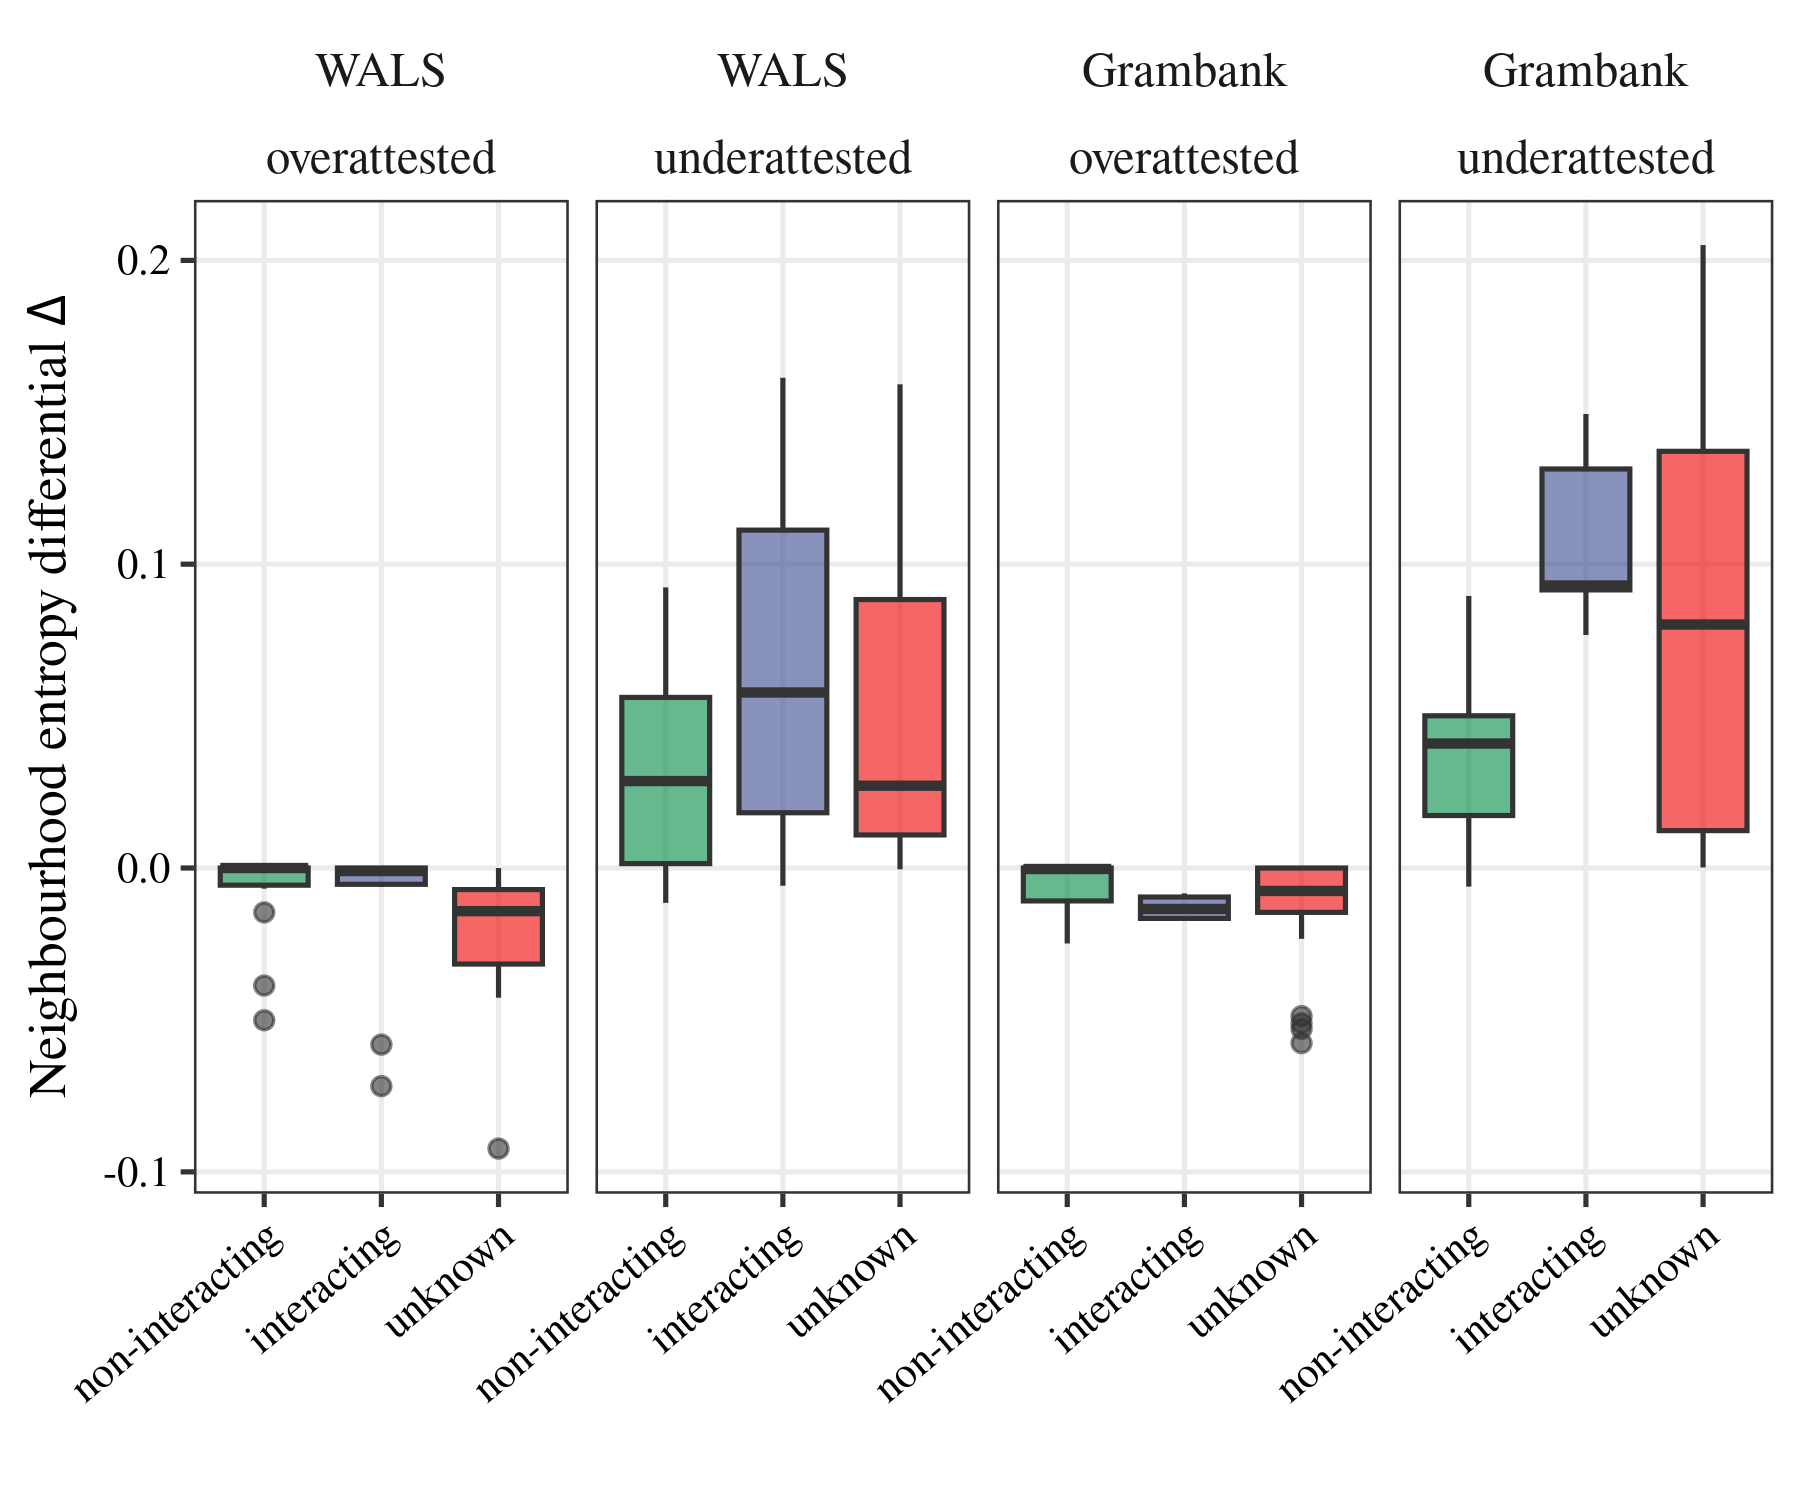
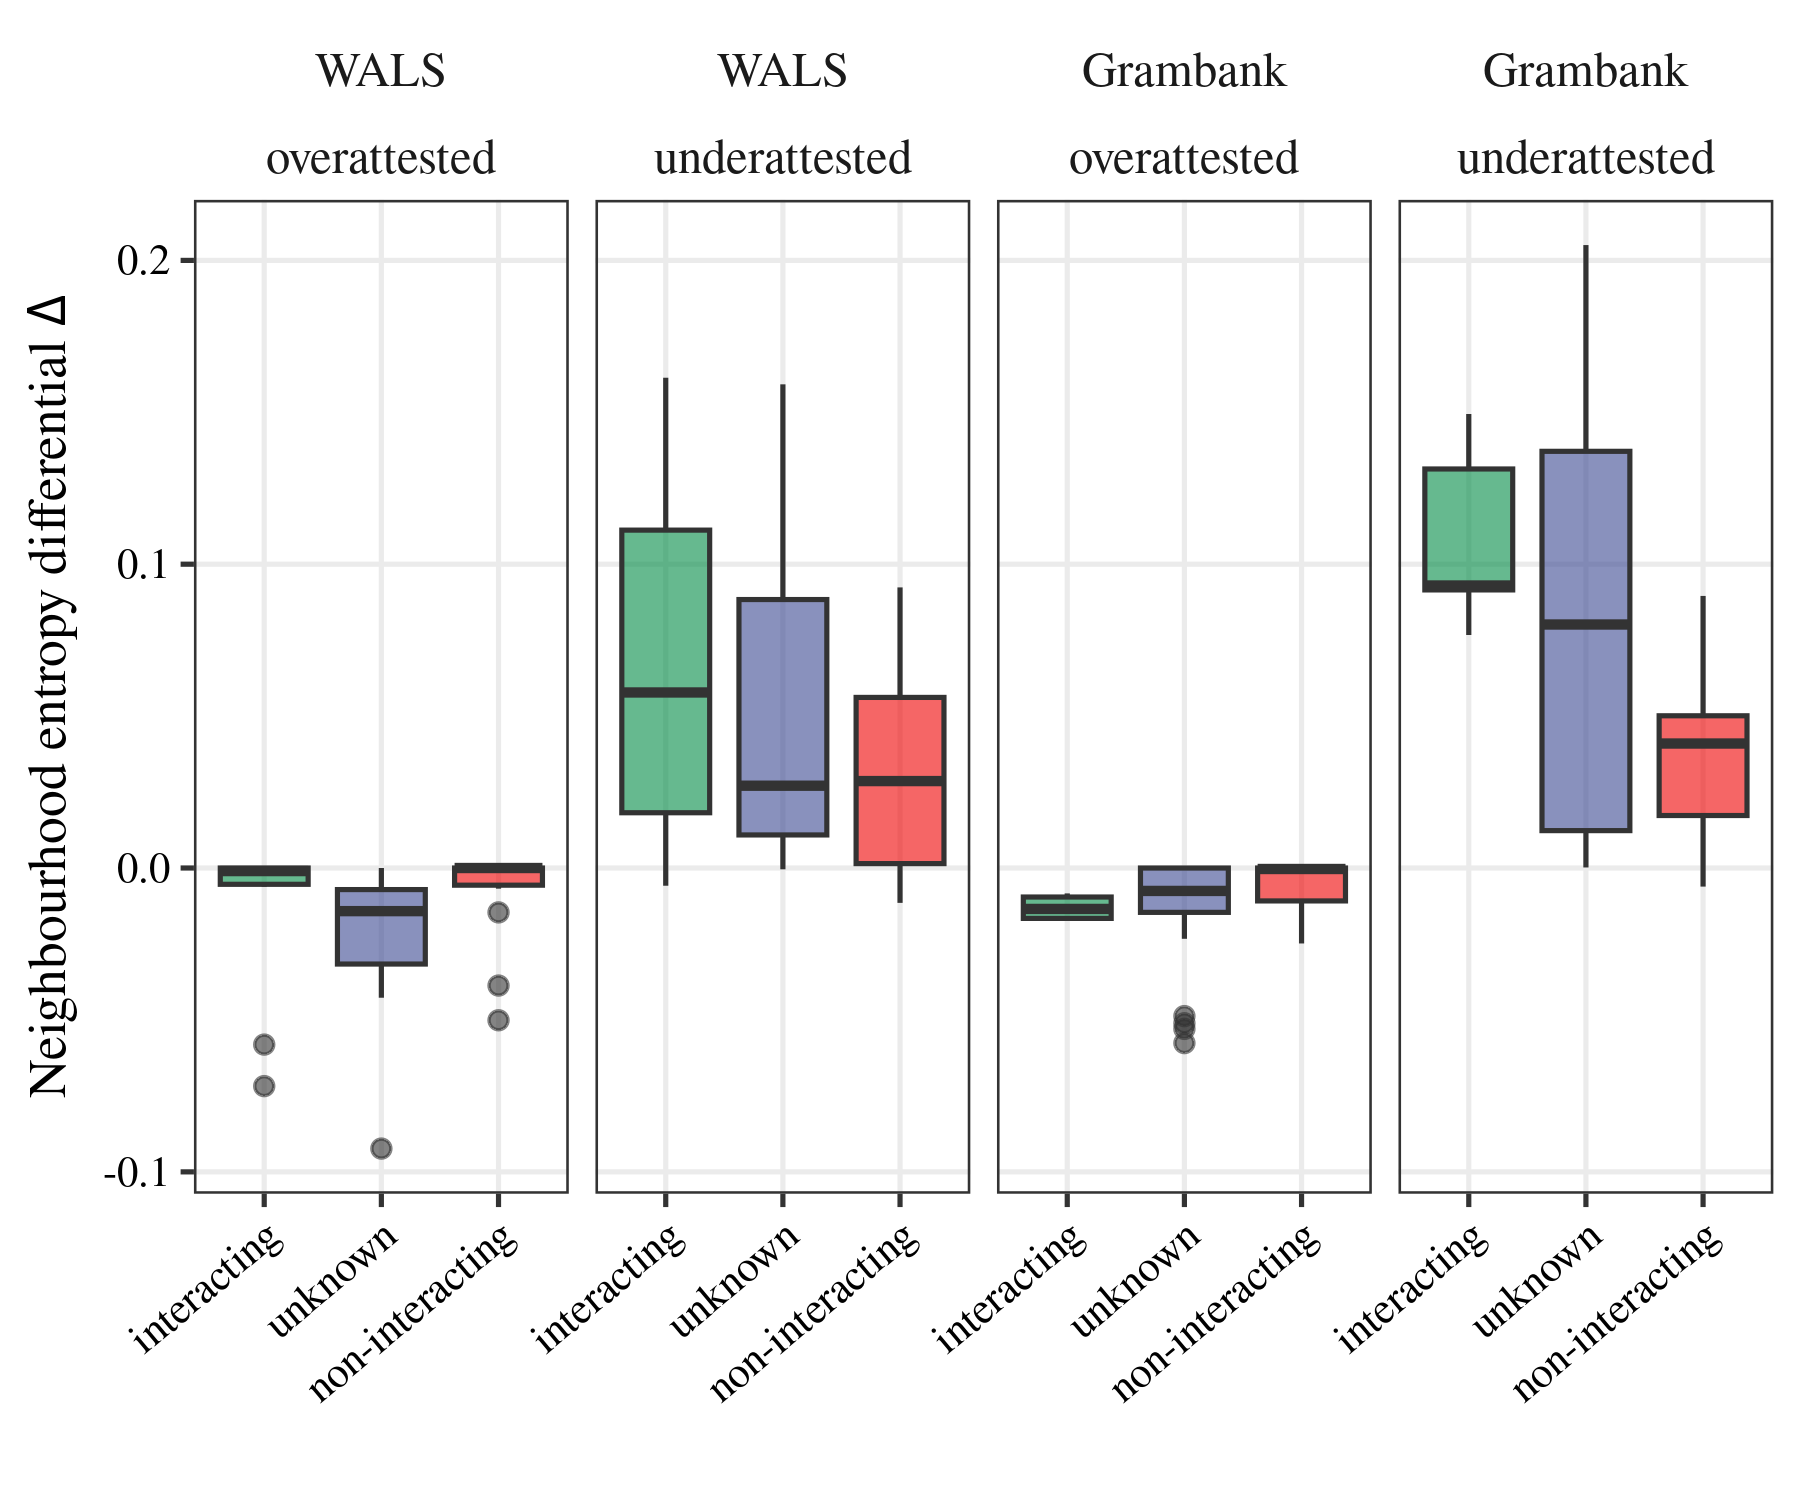
faffery

diff --git a/results/stats.html b/results/stats.html
@@ -480,11 +480,11 @@ print(summary(mod1_under_w))</code></pre>
 ## -0.07117 -0.03676 -0.01405  0.02890  0.11073 
 ## 
 ## Coefficients:
-##                   Estimate Std. Error t value Pr(&gt;|t|)   
-## (Intercept)        0.04266    0.01539   2.771  0.00843 **
-## statusinteracting  0.05300    0.02513   2.109  0.04127 * 
-## statusunknown      0.02089    0.01683   1.241  0.22187   
-## abs(phi)          -0.05168    0.04488  -1.152  0.25635   
+##                       Estimate Std. Error t value Pr(&gt;|t|)   
+## (Intercept)            0.09566    0.03002   3.187  0.00279 **
+## statusunknown         -0.03212    0.02379  -1.350  0.18459   
+## statusnon-interacting -0.05300    0.02513  -2.109  0.04127 * 
+## abs(phi)              -0.05168    0.04488  -1.152  0.25635   
 ## ---
 ## Signif. codes:  0 &#39;***&#39; 0.001 &#39;**&#39; 0.01 &#39;*&#39; 0.05 &#39;.&#39; 0.1 &#39; &#39; 1
 ## 
@@ -501,11 +501,11 @@ print(summary(mod1_under_w))</code></pre>
 ## -0.087397 -0.040869  0.000164  0.033713  0.112064 
 ## 
 ## Coefficients:
-##                   Estimate Std. Error t value Pr(&gt;|t|)   
-## (Intercept)        0.04088    0.01380   2.962  0.00512 **
-## statusinteracting  0.09311    0.03314   2.809  0.00764 **
-## statusunknown      0.05407    0.01961   2.757  0.00874 **
-## abs(phi)          -0.05644    0.04398  -1.283  0.20677   
+##                       Estimate Std. Error t value Pr(&gt;|t|)    
+## (Intercept)            0.13399    0.03151   4.253 0.000123 ***
+## statusunknown         -0.03904    0.02854  -1.368 0.178951    
+## statusnon-interacting -0.09311    0.03314  -2.809 0.007641 ** 
+## abs(phi)              -0.05644    0.04398  -1.283 0.206772    
 ## ---
 ## Signif. codes:  0 &#39;***&#39; 0.001 &#39;**&#39; 0.01 &#39;*&#39; 0.05 &#39;.&#39; 0.1 &#39; &#39; 1
 ## 
@@ -544,13 +544,11 @@ print(summary(mod1_over_w))</code></pre>
 ## -0.069612 -0.000688  0.007237  0.011959  0.022515 
 ## 
 ## Coefficients:
-##                    Estimate Std. Error t value Pr(&gt;|t|)  
-## (Intercept)       -0.006100   0.006859  -0.889   0.3792  
-## statusinteracting -0.003184   0.011200  -0.284   0.7776  
-## statusunknown     -0.013622   0.007500  -1.816   0.0768 .
-## abs(phi)          -0.006369   0.019999  -0.318   0.7518  
-## ---
-## Signif. codes:  0 &#39;***&#39; 0.001 &#39;**&#39; 0.01 &#39;*&#39; 0.05 &#39;.&#39; 0.1 &#39; &#39; 1
+##                        Estimate Std. Error t value Pr(&gt;|t|)
+## (Intercept)           -0.009284   0.013376  -0.694    0.492
+## statusunknown         -0.010437   0.010601  -0.985    0.331
+## statusnon-interacting  0.003184   0.011200   0.284    0.778
+## abs(phi)              -0.006369   0.019999  -0.318    0.752
 ## 
 ## Residual standard error: 0.02141 on 40 degrees of freedom
 ## Multiple R-squared:  0.08283,    Adjusted R-squared:  0.01405 
@@ -565,11 +563,11 @@ print(summary(mod1_over_w))</code></pre>
 ## -0.040862 -0.005200  0.005317  0.010354  0.018148 
 ## 
 ## Coefficients:
-##                     Estimate Std. Error t value Pr(&gt;|t|)
-## (Intercept)       -0.0054711  0.0038138  -1.435    0.159
-## statusinteracting -0.0009538  0.0091589  -0.104    0.918
-## statusunknown     -0.0050529  0.0054190  -0.932    0.357
-## abs(phi)          -0.0143397  0.0121546  -1.180    0.245
+##                         Estimate Std. Error t value Pr(&gt;|t|)
+## (Intercept)           -0.0064249  0.0087067  -0.738    0.465
+## statusunknown         -0.0040992  0.0078874  -0.520    0.606
+## statusnon-interacting  0.0009538  0.0091589   0.104    0.918
+## abs(phi)              -0.0143397  0.0121546  -1.180    0.245
 ## 
 ## Residual standard error: 0.01507 on 40 degrees of freedom
 ## Multiple R-squared:  0.09068,    Adjusted R-squared:  0.02248 
